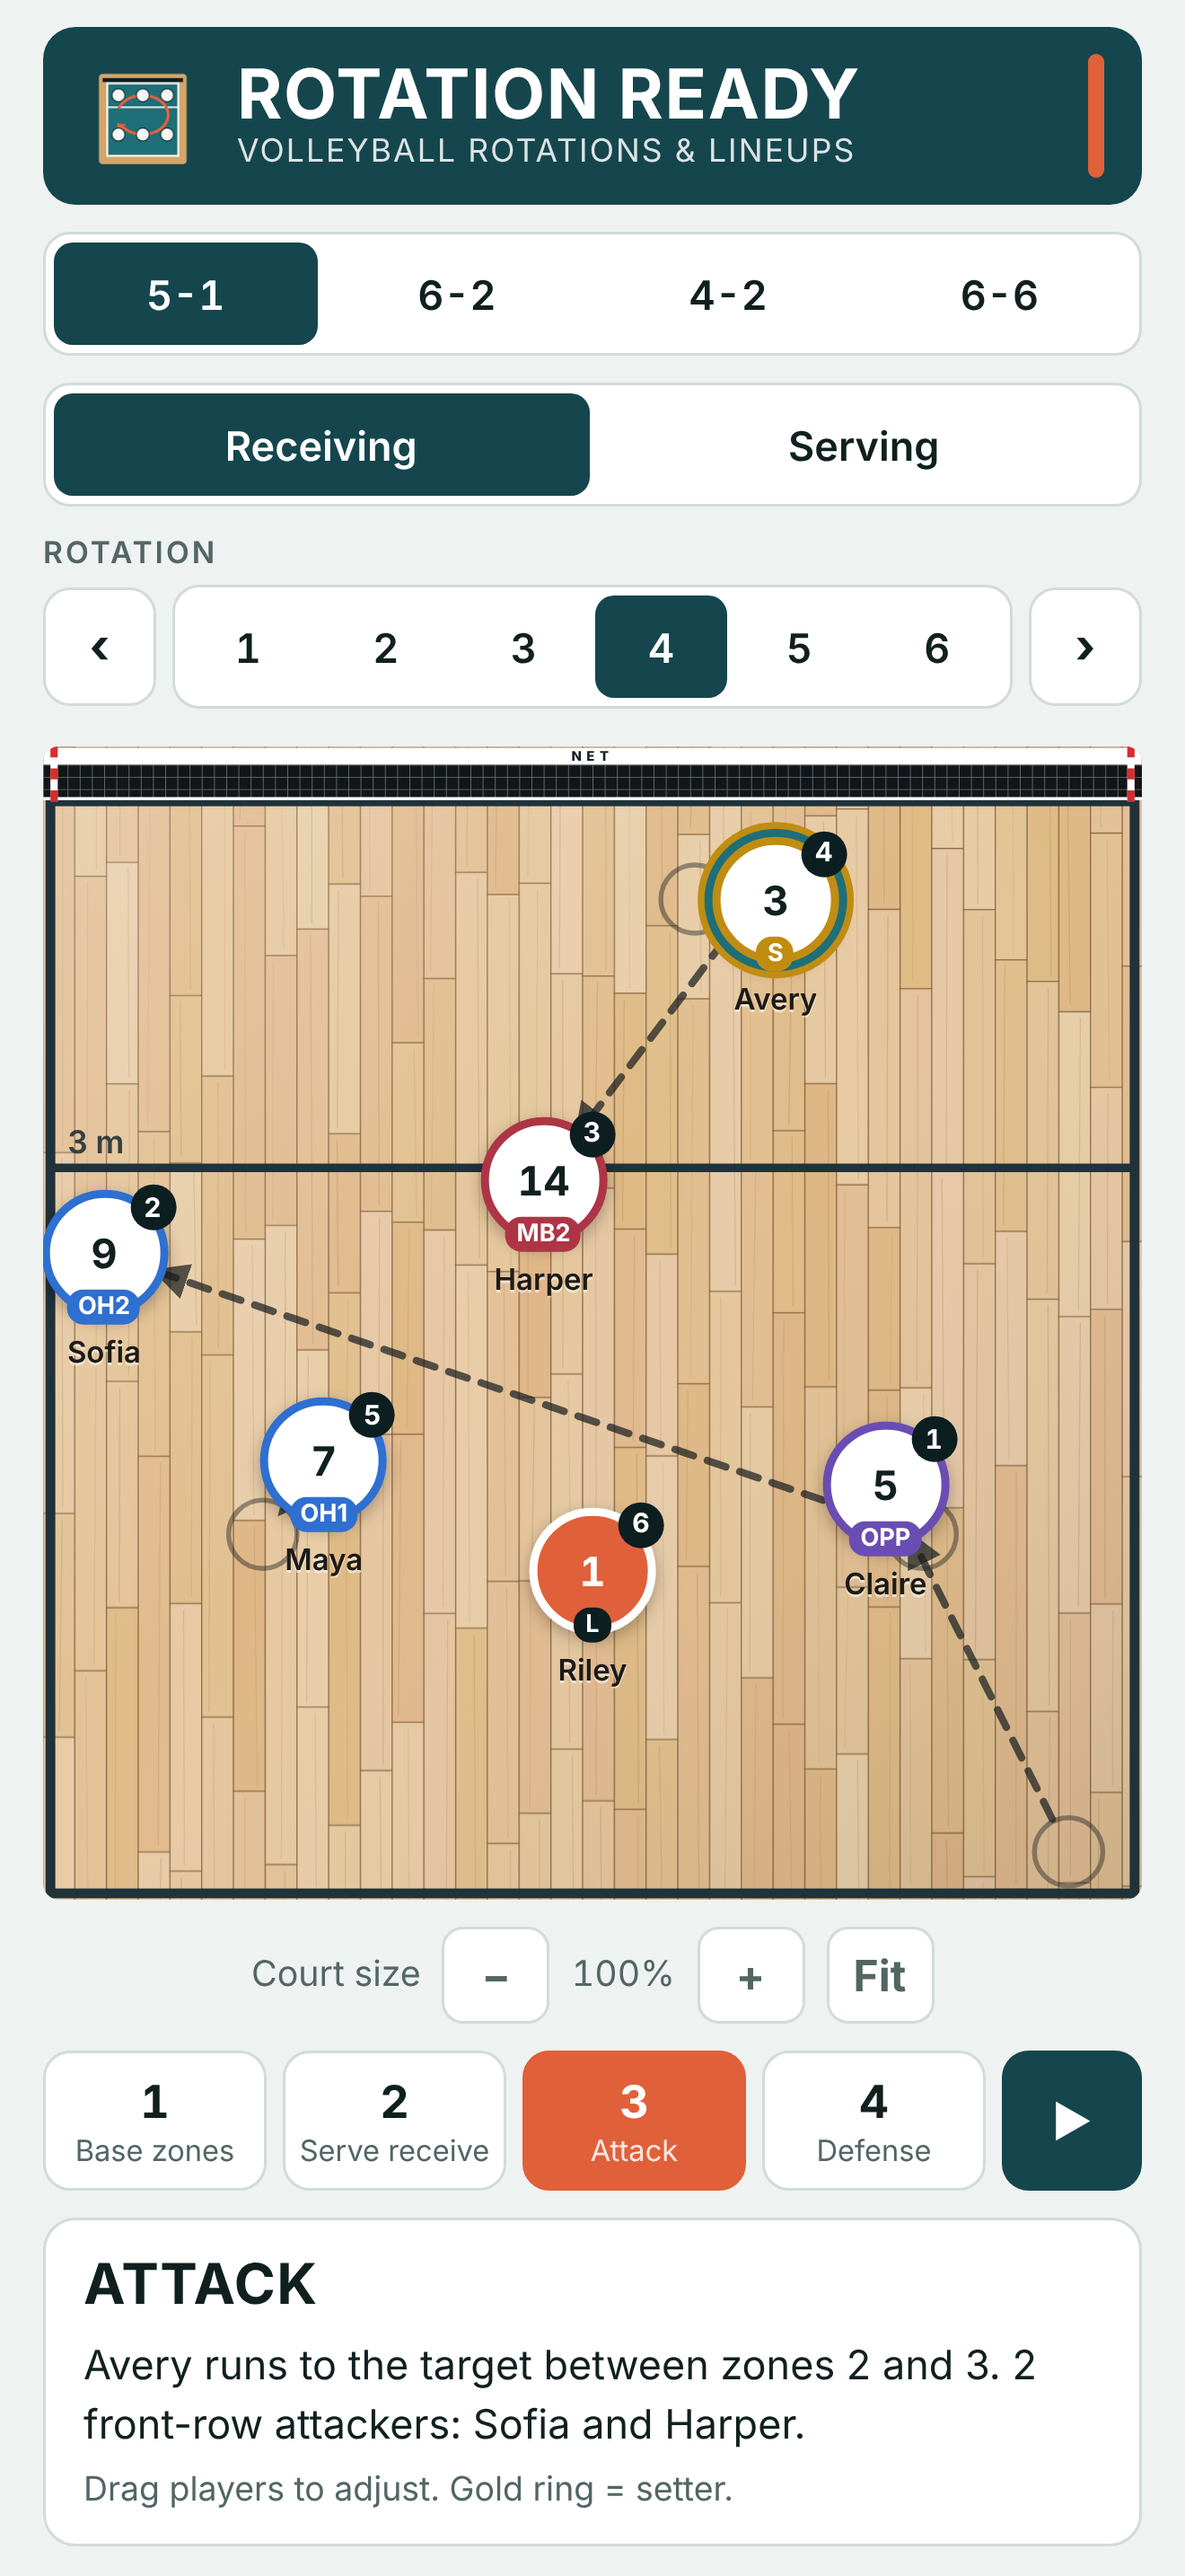
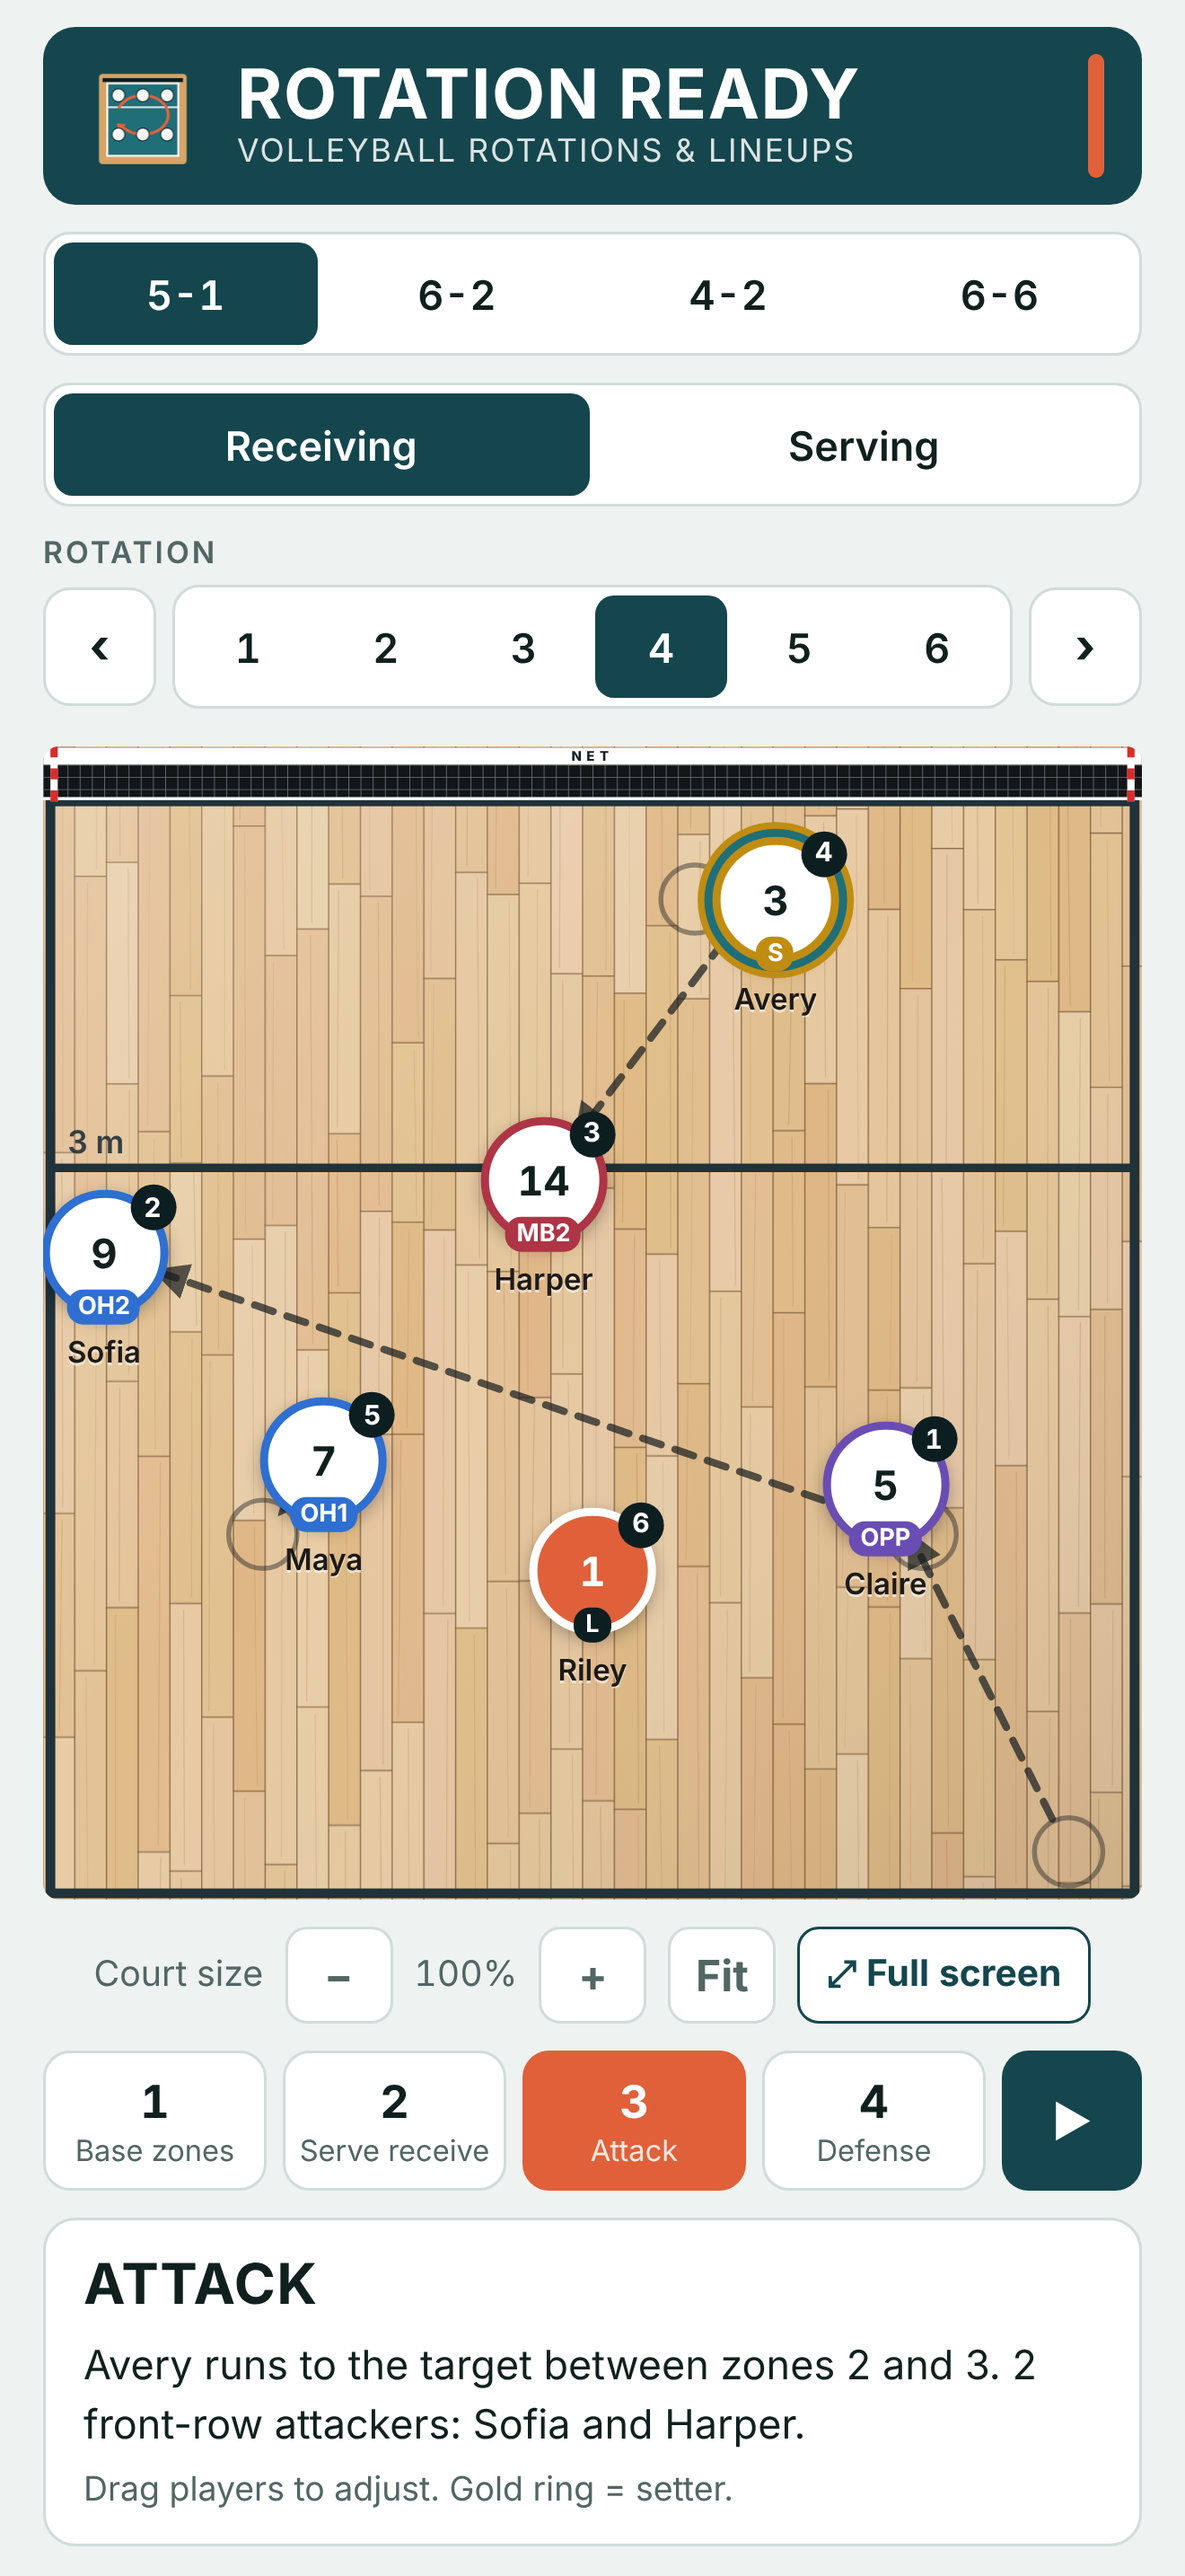
Full-screen court view
Claude-Session: https://claude.ai/code/session_01XjvadqE4PRY1XXpJhyDyr2

Changed region(s): [[0.497, 0.7448, 0.9008, 0.7758], [0.1864, 0.7448, 0.4659, 0.7758], [0.0932, 0.7448, 0.1553, 0.7758]]

diff --git a/www/index.html b/www/index.html
@@ -180,6 +180,25 @@ h1{font-family:var(--display);font-weight:700;font-size:1.6rem;letter-spacing:.0
 .toggle input{width:20px;height:20px;accent-color:var(--accent)}
 .legend{display:flex;flex-wrap:wrap;gap:10px;font-size:.78rem;color:var(--muted)}
 .legend i{display:inline-block;width:10px;height:10px;border-radius:50%;background:var(--rc);margin-right:4px;vertical-align:-1px}
+/* full-screen court */
+.zoombar .fsbtn{padding-inline:10px;font-size:.85rem;color:var(--brand);border-color:var(--brand)}
+.focusbar,.fsexit{display:none}
+body.focus{overflow:hidden}
+body.focus .board{position:fixed;inset:0;z-index:40;background:var(--bg);margin:0;display:flex;flex-direction:column;justify-content:safe center;align-items:center;gap:8px;overflow-y:auto;
+  padding:calc(env(safe-area-inset-top,0px) + 8px) max(10px,env(safe-area-inset-right,0px)) calc(env(safe-area-inset-bottom,0px) + 8px) max(10px,env(safe-area-inset-left,0px))}
+body.focus .zoombar,body.focus #steps,body.focus #info{display:none}
+body.focus .courtscroll{overflow:visible;flex:none;width:min(100%,(100dvh - 150px - env(safe-area-inset-top,0px) - env(safe-area-inset-bottom,0px)) * .8)}
+body.focus .courtwrap{width:100%}
+body.focus .focusbar{display:grid;gap:6px;justify-items:center}
+.focusbar .fcap{font-family:var(--display);font-weight:700;text-transform:uppercase;letter-spacing:.03em;font-size:.95rem}
+.focusbar .frow{display:flex;gap:6px;align-items:center}
+.focusbar button{border:1px solid var(--line);background:var(--surface);border-radius:10px;min-width:42px;min-height:42px;font-weight:700;font-variant-numeric:tabular-nums}
+.focusbar button[aria-pressed="true"]{background:var(--accent);color:var(--accent-ink);border-color:var(--accent)}
+.focusbar .fplay{background:var(--brand);color:var(--brand-ink);border-color:var(--brand)}
+.focusbar .fsep{width:1px;align-self:stretch;background:var(--line);margin-inline:2px}
+body.focus .fsexit{display:block;position:absolute;top:calc(env(safe-area-inset-top,0px) + 8px);right:max(10px,env(safe-area-inset-right,0px));z-index:5;
+  border:1px solid var(--line);background:var(--surface);border-radius:999px;padding:6px 12px;font-weight:700;min-height:36px;box-shadow:0 2px 8px rgba(0,0,0,.18)}
+
 </style>
 
 <main class="app">
@@ -224,9 +243,11 @@ h1{font-family:var(--display);font-weight:700;font-size:1.6rem;letter-spacing:.0
         <div class="serve-ball" id="ball" hidden></div>
       </div>
     </div></div>
-    <div class="zoombar"><span>Court size</span><button id="zOut" aria-label="Smaller court">−</button><span id="zLbl">100%</span><button id="zIn" aria-label="Bigger court">+</button><button id="zFit">Fit</button></div>
+    <div class="zoombar"><span>Court size</span><button id="zOut" aria-label="Smaller court">−</button><span id="zLbl">100%</span><button id="zIn" aria-label="Bigger court">+</button><button id="zFit">Fit</button><button id="fsBtn" class="fsbtn" aria-label="Show the court full screen">⤢ Full screen</button></div>
     <div class="steps" id="steps"></div>
     <div class="info" id="info"></div>
+    <div class="focusbar" id="focusBar"></div>
+    <button class="fsexit" id="fsExit" aria-label="Exit full screen">✕ Exit</button>
   </section>
 
   <aside class="panel" id="panel"></aside>
@@ -409,6 +430,11 @@ function render(){
   document.querySelectorAll('[data-rot]').forEach(b=>b.setAttribute('aria-pressed',+b.dataset.rot===S.rot));
   document.getElementById('steps').innerHTML=STEPS[S.mode].map((t,i)=>`<button class="step" data-step="${i+1}" aria-pressed="${S.step===i+1}"><b>${i+1}</b><span>${t}</span></button>`).join('')+
     `<button class="play" id="play" aria-label="Play all steps">${playT?'■':'▶'}</button>`;
+  const fb=document.getElementById('focusBar');
+  if(fb)fb.innerHTML=`<div class="fcap">${S.mode==='serve'?'Serving':'Receiving'} · Rotation ${S.rot} · ${STEPS[S.mode][S.step-1]}</div>
+    <div class="frow"><button data-act="rotPrev" aria-label="Previous rotation">‹</button><button data-act="rotNext" aria-label="Next rotation">›</button><span class="fsep"></span>
+    ${[1,2,3,4].map(n=>`<button data-step="${n}" aria-pressed="${S.step===n}" aria-label="Step ${n}: ${STEPS[S.mode][n-1]}">${n}</button>`).join('')}
+    <button class="fplay" data-act="play" aria-label="Play all steps">${playT?'■':'▶'}</button></div>`;
   document.getElementById('zoneNums').innerHTML=S.step===1?Object.entries(ZXY).map(([z,[x,y]])=>`<text class="c-zone" x="${x}" y="${y+.55}" font-size="1.6" text-anchor="middle">${z}</text>`).join(''):'';
 
   const pos=getPos(S.step,c);cur=pos;
@@ -518,7 +544,11 @@ document.addEventListener('click',e=>{
   else if(b.dataset.step){stopPlay();S.step=+b.dataset.step;save();tick();render();}
   else if(b.id==='rotPrev'){stopPlay();S.rot=S.rot===1?6:S.rot-1;save();render();}
   else if(b.id==='rotNext'){stopPlay();S.rot=S.rot===6?1:S.rot+1;save();render();}
-  else if(b.id==='play'){if(playT){stopPlay();render();return;}S.step=1;render();
+  else if(b.id==='fsBtn'){enterFocus();}
+  else if(b.id==='fsExit'){exitFocus();}
+  else if(b.dataset.act==='rotPrev'){stopPlay();S.rot=S.rot===1?6:S.rot-1;save();render();}
+  else if(b.dataset.act==='rotNext'){stopPlay();S.rot=S.rot===6?1:S.rot+1;save();render();}
+  else if(b.id==='play'||b.dataset.act==='play'){if(playT){stopPlay();render();return;}S.step=1;render();
     playT=setInterval(()=>{if(S.step>=4){stopPlay();render();return;}S.step++;render();},1500);render();}
   else if(b.id==='zIn'||b.id==='zOut'||b.id==='zFit'){S.zoom=b.id==='zFit'?1:Math.min(2,Math.max(.6,Math.round(((S.zoom||1)+(b.id==='zIn'?.2:-.2))*10)/10));save();applyZoom();}
   else if(b.id==='resetView'){delete S.ov[vkey(S.step)];save();render();}
@@ -558,7 +588,17 @@ document.addEventListener('change',e=>{
   const lu=S.data[S.sys].lineup,from=lu.indexOf(id),to=+t.value-1;
   [lu[from],lu[to]]=[lu[to],lu[from]];save();renderPanel();render();
 });
+let wake=null;
+function enterFocus(){document.body.classList.add('focus');scrollTo(0,0);
+  try{const el=document.documentElement,rf=el.requestFullscreen||el.webkitRequestFullscreen;if(rf){const r=rf.call(el);if(r&&r.catch)r.catch(()=>{});}}catch(e){}
+  try{if(navigator.wakeLock)navigator.wakeLock.request('screen').then(w=>wake=w).catch(()=>{});}catch(e){}
+  render();}
+function exitFocus(){document.body.classList.remove('focus');
+  try{const fe=document.fullscreenElement||document.webkitFullscreenElement,ex=document.exitFullscreen||document.webkitExitFullscreen;if(fe&&ex){const r=ex.call(document);if(r&&r.catch)r.catch(()=>{});}}catch(e){}
+  try{if(wake){wake.release();wake=null;}}catch(e){}
+  render();document.getElementById('fsBtn').focus({preventScroll:false});}
 document.addEventListener('keydown',e=>{
+  if(e.key==='Escape'&&document.body.classList.contains('focus')){exitFocus();return;}
   if(e.target.matches('input,select'))return;
   if(e.key==='ArrowRight'){S.step=Math.min(4,S.step+1);render();}
   else if(e.key==='ArrowLeft'){S.step=Math.max(1,S.step-1);render();}

diff --git a/www/sw.js b/www/sw.js
@@ -1,5 +1,5 @@
 // Bump VERSION whenever index.html changes so phones pick up the update.
-const VERSION = "rotation-ready-v1";
+const VERSION = "rotation-ready-v2";
 const FILES = ["./", "index.html", "manifest.webmanifest", "icon-180.png", "icon-192.png", "icon-512.png"];
 self.addEventListener("install", e => {
   e.waitUntil(caches.open(VERSION).then(c => c.addAll(FILES)).then(() => self.skipWaiting()));
